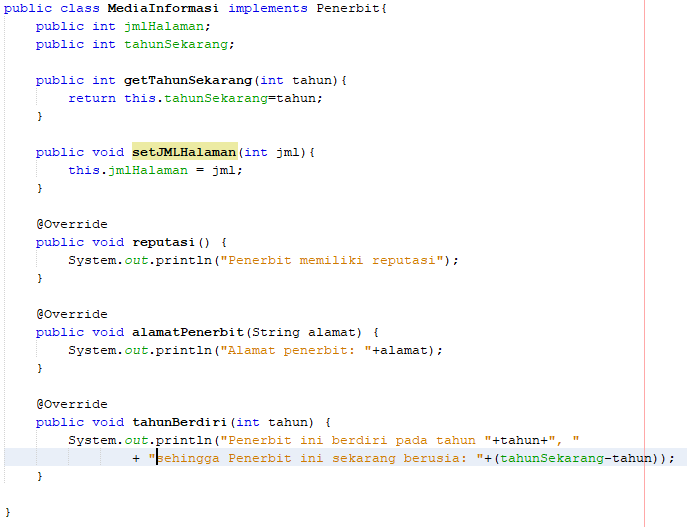
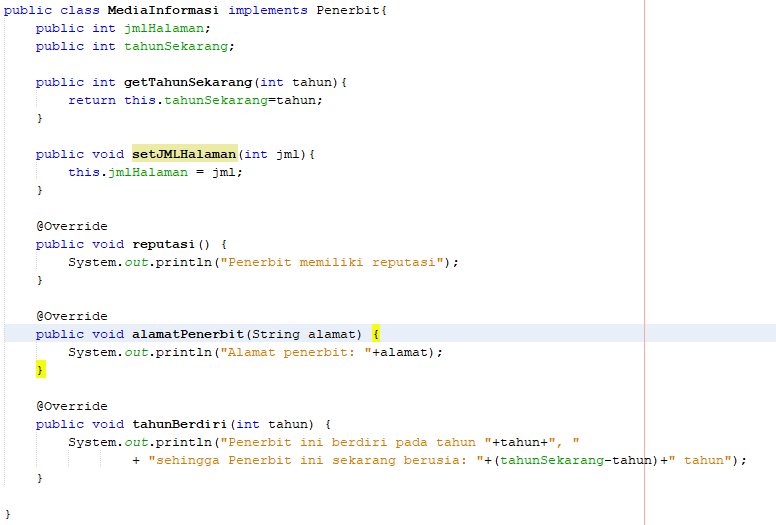
Kuis 2

diff --git a/Kuis 2/Kuis2/src/kuis2/MediaInformasi.java b/Kuis 2/Kuis2/src/kuis2/MediaInformasi.java
@@ -35,7 +35,7 @@ public class MediaInformasi implements Penerbit{
     @Override
     public void tahunBerdiri(int tahun) {
         System.out.println("Penerbit ini berdiri pada tahun "+tahun+", "
-                + "sehingga Penerbit ini sekarang berusia: "+(tahunSekarang-tahun));
+                + "sehingga Penerbit ini sekarang berusia: "+(tahunSekarang-tahun)+" tahun");
     }
     
 }
